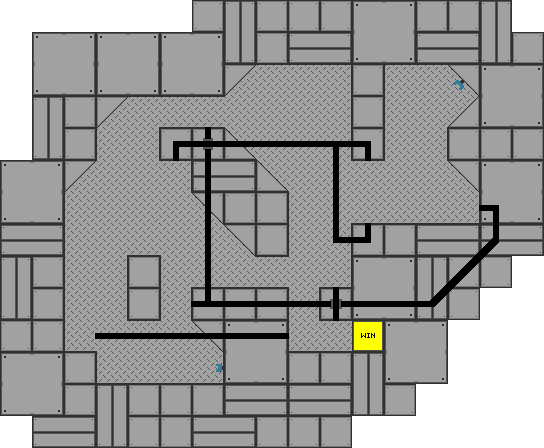
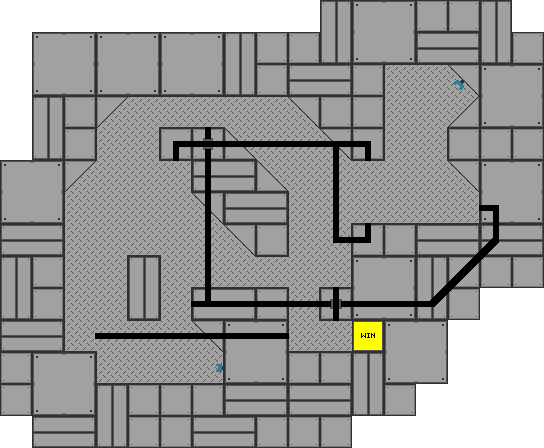
Levels 9, 10, and 12 revamped

diff --git a/src/LevelData.java b/src/LevelData.java
@@ -48,11 +48,11 @@ final class LevelData {
                 break;
             case 9:
                 Level9();
-                Game.level.name = "Labyrinth";
+                Game.level.name = "Sitting Duck";
                 break;
             case 10:
                 Level10();
-                Game.level.name = "Extraction";
+                Game.level.name = "Abandonment";
                 break;
             case 11:
                 Level11();
@@ -190,23 +190,22 @@ final class LevelData {
         Game.level.doors = new Door [] {new Door(new int [] {1, 2}, 0, 'W', 1)};
     }
     static void Level9 () {
-        Game.level.grid = new int [][] {{1, 1, 1, 1, 1, 1, 1, 1, 1, 1, 1, 1, 1, 1}, {1, 1, 1, 1, 1, 1, 1, 1, 1, 0, 0, 0, 1, 1}, {1, 1, 0, 0, 0, 0, 1, 1, 0, 0, 7, 0, 0, 1}, {1, 3, 0, 7, 0, 0, 1, 1, 0, 0, 1, 7, 0, 1}, {1, 1, 0, 0, 0, 0, 1, 1, 0, 0, 7, 0, 0, 1}, {1, 1, 1, 0, 0, 0, 9, 0, 0, 0, 0, 0, 0, 1}, {1, 1, 1, 1, 1, 1, 1, 1, 1, 1, 1, 1, 0, 1}, {1, 1, 1, 1, 1, 1, 1, 0, 0, 1, 1, 1, 0, 1}, {1, 1, 1, 1, 1, 1, 1, 0, 0, 0, 1, 1, 0, 1}, {1, 1, 1, 1, 1, 1, 1, 9, 1, 0, 0, 1, 0, 1}, {1, 1, 1, 1, 1, 1, 1, 0, 1, 0, 0, 0, 0, 1}, {1, 1, 1, 1, 1, 1, 1, 4, 1, 0, 0, 0, 0, 1}, {1, 1, 1, 1, 1, 1, 1, 1, 1, 1, 1, 1, 1, 1}};
-        Game.level.player = new Player (new int [] {1, 3});
-        Game.level.boxes = new Box [] {new Box (new int [] {10, 2}), new Box (new int [] {3, 3}), new Box (new int [] {11, 3}), new Box (new int [] {10, 4})};
-        Game.level.power = new boolean [] {false, true, false};
-        Game.level.transmitters = new Transmitter [] {new Transmitter (new int [] {10, 1}, "S", 'B'), new Transmitter (new int [] {2, 5}, "NE", 'B')};
-        Game.level.receivers = new Receiver [] {new Receiver (new int [] {5, 4}, "E", 'B', 0), new Receiver (new int [] {12, 4}, "E", 'B', 1), new Receiver (new int [] {9, 11}, "W", 'B', 2)};
-        Game.level.doors = new Door [] {new Door(new int [] {6, 5}, 0, 'N', 0), new Door(new int [] {11, 10}, 0, 'N', 1), new Door(new int [] {7, 9}, 0, 'E', 2)};
+        Game.level.grid = new int [][] {{1, 1, 1, 1, 1, 1, 1, 1}, {1, 1, 1, 0, 0, 0, 1, 1}, {1, 1, 0, 0, 7, 0, 0, 1}, {1, 1, 0, 0, 1, 7, 0, 1}, {1, 1, 0, 0, 7, 0, 0, 1}, {9, 0, 0, 0, 0, 0, 0, 1}, {1, 1, 1, 1, 1, 1, 0, 1}, {1, 0, 0, 1, 1, 1, 0, 1}, {1, 0, 0, 0, 1, 1, 0, 1}, {1, 9, 1, 0, 0, 1, 0, 1}, {1, 0, 1, 0, 0, 0, 0, 1}, {1, 4, 1, 0, 0, 0, 0, 1}, {1, 1, 1, 1, 1, 1, 1, 1}};
+        Game.level.player = new Player (new int [] {1, 5});
+        Game.level.boxes = new Box [] {new Box (new int [] {4, 2}), new Box (new int [] {5, 3}), new Box (new int [] {4, 4})};
+        Game.level.power = new boolean [] {true, false};
+        Game.level.transmitters = new Transmitter [] {new Transmitter (new int [] {4, 1}, "S", 'B')};
+        Game.level.receivers = new Receiver [] {new Receiver (new int [] {6, 4}, "E", 'B', 0), new Receiver (new int [] {3, 11}, "W", 'B', 1)};
+        Game.level.doors = new Door [] {new Door(new int [] {5, 10}, 0, 'N', 0), new Door(new int [] {1, 9}, 0, 'E', 1)};
     }
     static void Level10 () {
-        Game.level.grid = new int [][] {{1, 1, 1, 1, 1, 1, 1, 1, 1, 1, 1, 1, 1}, {1, 1, 1, 1, 1, 0, 0, 9, 0, 0, 0, 1, 1}, {1, 1, 0, 0, 1, 0, 0, 9, 0, 7, 0, 1, 1}, {1, 1, 0, 7, 9, 0, 0, 1, 1, 1, 1, 1, 1}, {1, 1, 0, 0, 1, 1, 1, 1, 1, 1, 1, 1, 1}, {1, 1, 9, 9, 1, 1, 0, 0, 0, 9, 0, 0, 1}, {1, 1, 0, 0, 0, 1, 0, 0, 1, 1, 0, 1, 1}, {1, 0, 0, 0, 0, 0, 0, 0, 1, 1, 9, 1, 1}, {1, 0, 0, 7, 0, 0, 3, 0, 1, 1, 4, 1, 1}, {1, 1, 0, 0, 1, 1, 0, 0, 1, 1, 1, 1, 1}, {1, 1, 1, 1, 1, 1, 1, 1, 1, 1, 1, 1, 1}};
-        Game.level.player = new Player (new int [] {6, 8});
-        Game.level.boxes = new Box [] {new Box (new int [] {9, 2}), new Box (new int [] {3, 3}), new Box (new int [] {3, 8})};
-        Game.level.power = new boolean [] {false, false, false, false, false};
-        Game.level.buttons = new Button [] {new Button(new int [] {11, 5}, 4)};
-        Game.level.transmitters = new Transmitter [] {new Transmitter (new int [] {1, 9}, "NE", 'B')};
-        Game.level.receivers = new Receiver [] {new Receiver (new int [] {6, 1}, "N", 'B', 0), new Receiver (new int [] {2, 3}, "W", 'B', 1), new Receiver (new int [] {6, 5}, "N", 'B', 2), new Receiver (new int [] {1, 7}, "W", 'B', 3)};
-        Game.level.doors = new Door [] {new Door(new int [] {7, 1}, 0, 'N', 0), new Door(new int [] {7, 2}, 0, 'S', 0), new Door(new int [] {4, 3}, 0, 'N', 1), new Door(new int [] {9, 5}, 0, 'N', 2), new Door(new int [] {2, 5}, 0, 'W', 3), new Door(new int [] {3, 5}, 0, 'E', 3), new Door(new int [] {10, 7}, 0, 'E', 4)};
+        Game.level.grid = new int [][] {{1, 1, 1, 1, 1, 1, 1, 1, 1, 1, 1, 1, 1, 1}, {1, 1, 1, 0, 0, 1, 1, 1, 1, 1, 1, 4, 1, 1}, {1, 1, 0, 3 , 0, 1, 0, 0, 1, 1, 1, 9, 1, 1}, {1, 1, 0, 0, 0, 9, 0, 7, 0, 1, 0, 0, 1, 1}, {1, 0, 0, 7, 0, 1, 0, 0, 0, 1, 0, 0, 0, 1}, {1, 1, 0, 0, 1, 1, 0, 0, 0, 9, 0, 0, 0, 1}, {1, 1, 1, 1, 1, 1, 1, 1, 1, 1, 1, 1, 1, 1}};
+        Game.level.player = new Player (new int [] {3, 2});
+        Game.level.boxes = new Box [] {new Box (new int [] {3, 4}), new Box (new int [] {7, 3})};
+        Game.level.power = new boolean [] {false, false, false};
+        Game.level.transmitters = new Transmitter [] {new Transmitter (new int [] {1, 5}, "NE", 'B'), new Transmitter (new int [] {6, 2}, "S", 'B')};
+        Game.level.receivers = new Receiver [] {new Receiver (new int [] {3, 1}, "N", 'B', 0), new Receiver (new int [] {8, 3}, "E", 'B', 1), new Receiver (new int [] {10, 3}, "N", 'B', 2)};
+        Game.level.doors = new Door [] {new Door(new int [] {5, 3}, 0, 'N', 0), new Door(new int [] {9, 5}, 0, 'N', 1), new Door(new int [] {11, 2}, 0, 'W', 2)};
     }
     static void Level11 () {
         Game.level.grid = new int [][] {{1, 1, 1, 1, 1, 1, 1, 1, 1}, {1, 0, 7, 0, 0, 0, 0, 4, 1}, {1, 3, 7, 0, 0, 0, 1, 1, 1}, {1, 0, 7, 0, 0, 1, 1, 1, 1}, {1, 1, 1, 1, 0, 1, 1, 1, 1}, {1, 1, 1, 1, 0, 1, 1, 1, 1}, {1, 1, 1, 1, 1, 1, 1, 1, 1}};
@@ -218,7 +217,7 @@ final class LevelData {
         Game.level.doors = new Door [] {new Door(new int [] {6, 1}, 0, 'S', 0), new Door(new int [] {4, 4}, 0, 'E', 0)};
     }
     static void Level12 () {
-        Game.level.grid = new int [][] {{1, 1, 1, 1, 1, 1, 1, 1, 1, 1, 1, 1, 1, 1, 1}, {1, 1, 1, 1, 1, 1, 1, 0, 0, 0, 1, 0, 0, 1, 1}, {1, 1, 1, 0, 0, 9, 0, 0, 0, 0, 1, 7, 0, 1, 1}, {1, 1, 0, 0, 1, 1, 1, 0, 0, 0, 1, 0, 0, 1, 1}, {1, 1, 0, 0, 0, 1, 1, 1, 0, 0, 9, 0, 0, 1, 1}, {1, 0, 0, 7, 0, 1, 1, 1, 0, 0, 9, 0, 0, 0, 1}, {1, 0, 0, 0, 0, 0, 1, 1, 0, 0, 1, 1, 1, 1, 1}, {1, 0, 0, 1, 0, 0, 0, 0, 0, 0, 1, 1, 1, 1, 1}, {1, 0, 0, 1, 9, 1, 1, 1, 0, 1, 1, 1, 1, 1, 1}, {1, 0, 0, 0, 0, 1, 1, 1, 9, 9, 4, 1, 1, 1, 1}, {1, 1, 0, 7, 0, 3, 1, 1, 1, 1, 1, 1, 1, 1, 1}, {1, 1, 1, 1, 1, 1, 1, 1, 1, 1, 1, 1, 1, 1, 1}};
+        Game.level.grid = new int [][] {{1, 1, 1, 1, 1, 1, 1, 1, 1, 1, 1, 1, 1, 1, 1}, {1, 1, 1, 1, 1, 1, 1, 1, 1, 1, 1, 0, 0, 1, 1}, {1, 1, 1, 0, 0, 9, 0, 0, 1, 1, 1, 7, 0, 1, 1}, {1, 1, 0, 0, 1, 1, 1, 0, 0, 1, 1, 0, 0, 1, 1}, {1, 1, 0, 0, 0, 1, 1, 1, 0, 0, 9, 0, 0, 1, 1}, {1, 0, 0, 7, 0, 1, 1, 1, 0, 0, 9, 0, 0, 0, 1}, {1, 0, 0, 0, 0, 0, 1, 1, 0, 0, 1, 1, 1, 1, 1}, {1, 0, 0, 1, 0, 0, 0, 0, 0, 0, 1, 1, 1, 1, 1}, {1, 0, 0, 1, 9, 1, 1, 1, 0, 1, 1, 1, 1, 1, 1}, {1, 0, 0, 0, 0, 1, 1, 1, 9, 9, 4, 1, 1, 1, 1}, {1, 1, 0, 7, 0, 3, 1, 1, 1, 1, 1, 1, 1, 1, 1}, {1, 1, 1, 1, 1, 1, 1, 1, 1, 1, 1, 1, 1, 1, 1}};
         Game.level.player = new Player (new int [] {5, 10});
         Game.level.boxes = new Box [] {new Box (new int [] {11, 2}), new Box (new int [] {3, 5}), new Box (new int [] {3, 10})};
         Game.level.power = new boolean [] {false, false, false, false};
